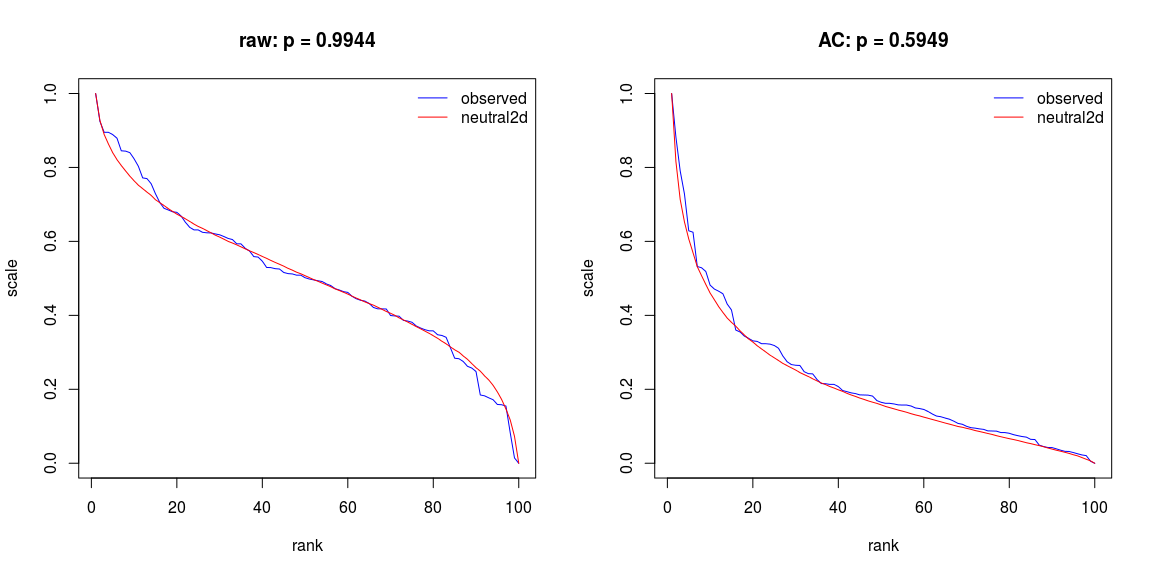
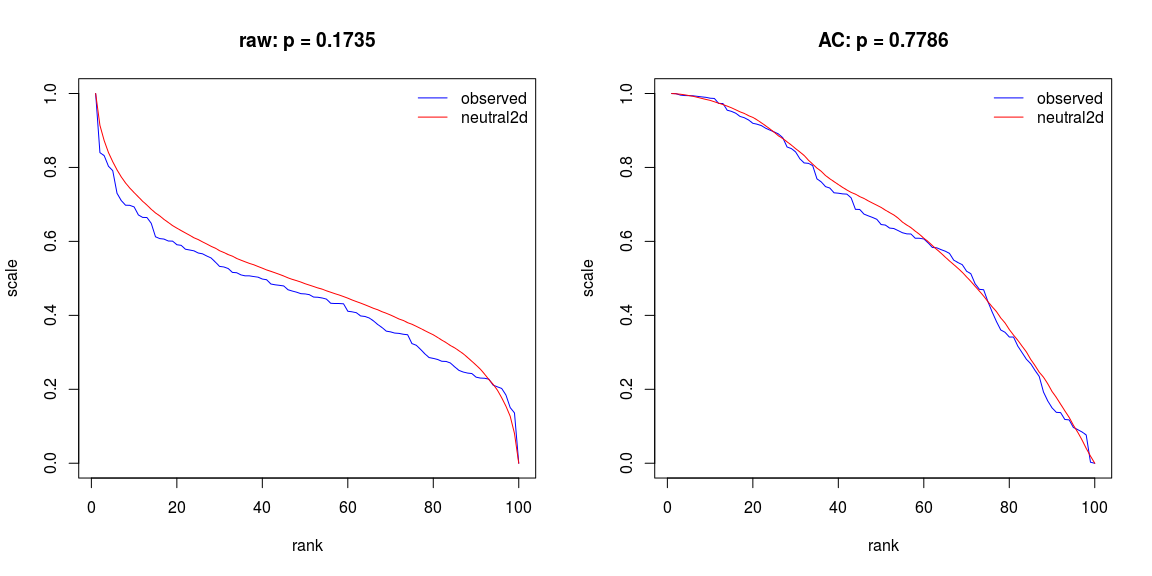
tidy test2d, run-tests; update readme

diff --git a/README.md b/README.md
@@ -17,41 +17,42 @@ First a demonstration with a seed that produces a 2D field very similar to neutr
 ``` r
 plot.new ()
 seed <- 18
-ymat <- ives2d (size=10, seed=seed)
-test <- test2d (ymat, plot=TRUE)
+dat <- ives2d (size=10, seed=seed)
+test <- test2d (z=dat$z, nbs=dat$nbs, plot=TRUE)
 ```
 
-![](fig/demo-moran.png)
+![](README_files/figure-markdown_github/demo-moran-1.png)
 
 The default spatial autocorrelation statistic is Moran's I, with results for other statistics in this case notably different. Geary's C:
 
 ``` r
 plot.new ()
-test <- test2d (ymat, plot=TRUE, ac_type='geary')
+test <- test2d (z=dat$z, nbs=dat$nbs, plot=TRUE, ac_type='geary')
 ```
 
-![](fig/demo-geary.png)
+![](README_files/figure-markdown_github/demo-geary-1.png)
 
 And Getis-Ord:
 
 ``` r
 plot.new ()
-test <- test2d (ymat, plot=TRUE, ac_type='getis')
+test <- test2d (z=dat$z, nbs=dat$nbs, plot=TRUE, ac_type='getis')
 ```
 
-![](fig/demo-getis.png)
+![](README_files/figure-markdown_github/demo-getis-1.png)
 
 Then the text output of `run_tests` for a random seed giving more typically low p-values.
 
 ``` r
-run_tests (size=10, ntests=100)
+dat <- ives2d (size=10)
+run_tests (nbs=dat$nbs, z=dat$z, ntests=100)
 ```
 
     ##              differences     p-values        |                       |
     ##   alpha      raw     AC      raw     AC      |   alpha           n   |
     ## ---------------------------------------------|-----------------------|
-    ##  (0.1, 0.1)  0.21    0.06    0.1267  0.9009  |   (0.81, 0.09)    10  |
-    ##  (0.1, 0)    0.18    0.08    0.1623  0.9859  |   (0.86, 0.09)    9   |
+    ##  (0.1, 0.1)  0.20    0.00    0.8104  0.4635  |   (0.87, -0.05)   10  |
+    ##  (0.1, 0)    0.19    0.00    0.8073  0.5280  |   (0.28, 0.02)    10  |
     ## ----------------------------------------------------------------------
 
 Note that the model field tested here has a complex *temporal* structure yet a generic---that is, neutral---\*spatial structure, and that the `p-values` reflect these differences.
@@ -59,12 +60,12 @@ Note that the model field tested here has a complex *temporal* structure yet a g
 `run_tests` can also be used to test a neutral field against a statistial ensemble of neutral fields:
 
 ``` r
-run_tests (size=10, ntests=100, neutral=TRUE)
+run_tests (nbs=dat$nbs, ntests=100, neutral=TRUE)
 ```
 
     ##              differences     p-values        |                       |
     ##   alpha      raw     AC      raw     AC      |   alpha           n   |
     ## ---------------------------------------------|-----------------------|
-    ##  (0.1, 0.1)  0.07    0.18    0.9041  0.9848  |   (0.59, 0.10)    11  |
-    ##  (0.1, 0)    0.08    0.21    0.7236  0.6503  |   (0.14, 0.07)    10  |
+    ##  (0.1, 0.1)  0.29    0.00    0.4908  0.2884  |   (1.13, -0.04)   10  |
+    ##  (0.1, 0)    0.28    0.00    0.6964  0.3564  |   (0.38, 0.01)    11  |
     ## ----------------------------------------------------------------------
